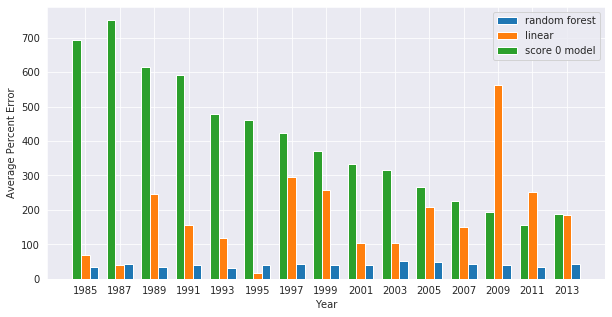
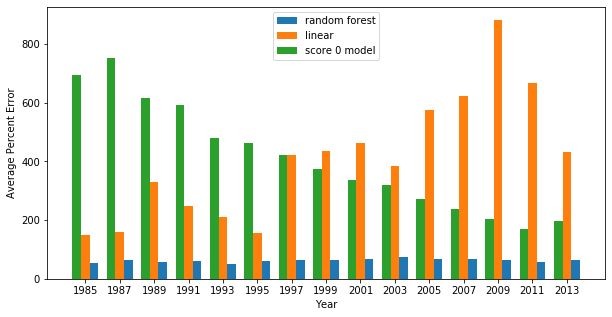
blog updates

diff --git a/docs/_site/2020/01/12/housingcosts.html b/docs/_site/2020/01/12/housingcosts.html
@@ -318,7 +318,11 @@
 
 <h2 id="discussion">DISCUSSION</h2>
 
-<p>In the table below, the top 10 features are listed for the ridge linear and random forest model. Both models agree that the housing unit market value (feature name VALUE) is the most important factor in determining the monthly housing cost. Both models also list AGE, IPOV, and FMR in their top 5 features. For ridge linear, the 4 other important features features are measurements related to the median area income. For random forest, the 4 other important features have to do with the household’s income and the age of the head of the household.</p>
+<p>In the table below, the top 10 features are listed for the ridge linear and random forest model. Both models agree that the housing unit market value (feature name VALUE) is the most important factor in determining the monthly housing cost.</p>
+
+<p>For random forest, the second most important predicter is AGE (age of head of household), followed by INCRELAMIPCT (income). Next most important predictors for this model are variables that measure local market conditions IPOV (poverty level income), FMR (fair market rent), and LMED (median income). The least important variables include the survey year (YEAR) and variables describing the housing characteristics (ROOMS, BEDRMS, PER (number of people)).</p>
+
+<p>For the linear model, the same set of variables (except for BEDRMS) are considered important; however the order of importance is different than the random forest model. Whether or not the housing unit was built in 2000-2009 was an important predictor for the linear model.</p>
 
 <table style="width:50%">
   <tr>
@@ -393,7 +397,7 @@
   </tr>
 </table>
 
-<p>Next, the percent error is calculated for each model. As a baseline for comparison, a third model is defined which predicts the sample average, regardless of the feature values. Such a model would have a score of 0. The average percent error is plotted across survey years for linear ridge, random forest, and baseline model. The random forest has the smallest average percent error, except for the years 1987 and 1995 where linear ridge has a smaller average percent error. For most survey years, the linear model is better than the baseline model. However this is not true for the years 2005, 2009, and 2011.</p>
+<p>Next, the percent error is calculated for each model. As a baseline for comparison, a third model is defined which predicts the sample average, regardless of the feature values. Such a model would have a score of 0. The average percent error is plotted across survey years for linear ridge, random forest, and baseline model. The random forest has by far the smallest average percent error. For earlier survey years, the linear model performs better than the baseline model. For later survey years, the baseline model outperforms the linear model.</p>
 
 <p><img src="/assets/images/avg_percent_error_all.png" alt="average percent error" title="average percent error" /></p>
 
@@ -407,7 +411,7 @@
 
 <p><img src="/assets/images/percent_error_boxplot_rf_zoomedin.png" alt="box plot rf zoomed" title="box plot rf zoomed" /></p>
 
-<p>For the support vector machine, the accuracy, precision, and recall are calculated.<sup><a href="#fn3" id="ref3">3</a></sup> These values are listed below.</p>
+<p>For the support vector machine, a binary variable is defined if the housing unit is above the 90th percentile for the monthly housing cost. The accuracy, precision, and recall are calculated for this variable.<sup><a href="#fn3" id="ref3">3</a></sup> These values are listed below.</p>
 
 <table style="width:20%">
   <tr>
@@ -439,7 +443,7 @@
 </ul>
 
 <h2 id="conclusion">CONCLUSION</h2>
-<p>In conclusion, a linear ridge model and random forest model were used to predict the monthly housing cost. Both models determined that the housing unit market value is an important indicator of the monthly housing cost. However both models disagree in what other parameters are important predictor variables. The random forest model on average has a smaller percent error than the linear ridge model. A support vector machine is used to predict whether or not a housing unit is in the top 10% of monthly housing cost. The accuracy, precision, and recall are calculated for this model. Finally, ideas on improving the predictive power of these models is discussed.</p>
+<p>In conclusion, a linear ridge model and random forest model were used to predict the monthly housing cost. Both models determined that the housing unit market value is an important indicator of the monthly housing cost. Both models almost had the same set of important predictor variables. However, the order of importance differed. The random forest model has on average a smaller percent error than the linear ridge model. A support vector machine is used to predict whether or not a housing unit is in the top 10% of monthly housing cost. The accuracy, precision, and recall are calculated for this model. Finally, ideas on improving the predictive power of these models are discussed.</p>
 
 <hr />
 

diff --git a/docs/_posts/2020-01-12-housingcosts.md b/docs/_posts/2020-01-12-housingcosts.md
@@ -284,7 +284,11 @@ Finally, a support vector machine (SVM) model is used to predict whether or not 
 
 ## DISCUSSION
 
-In the table below, the top 10 features are listed for the ridge linear and random forest model. Both models agree that the housing unit market value (feature name VALUE) is the most important factor in determining the monthly housing cost. Both models also list AGE, IPOV, and FMR in their top 5 features. For ridge linear, the 4 other important features features are measurements related to the median area income. For random forest, the 4 other important features have to do with the household’s income and the age of the head of the household.
+In the table below, the top 10 features are listed for the ridge linear and random forest model. Both models agree that the housing unit market value (feature name VALUE) is the most important factor in determining the monthly housing cost.
+
+For random forest, the second most important predicter is AGE (age of head of household), followed by INCRELAMIPCT (income). Next most important predictors for this model are variables that measure local market conditions IPOV (poverty level income), FMR (fair market rent), and LMED (median income). The least important variables include the survey year (YEAR) and variables describing the housing characteristics (ROOMS, BEDRMS, PER (number of people)).
+
+For the linear model, the same set of variables (except for BEDRMS) are considered important; however the order of importance is different than the random forest model. Whether or not the housing unit was built in 2000-2009 was an important predictor for the linear model.
 
 <table style="width:50%">
   <tr>
@@ -359,7 +363,7 @@ In the table below, the top 10 features are listed for the ridge linear and rand
   </tr>
 </table> 
 
-Next, the percent error is calculated for each model. As a baseline for comparison, a third model is defined which predicts the sample average, regardless of the feature values. Such a model would have a score of 0. The average percent error is plotted across survey years for linear ridge, random forest, and baseline model. The random forest has the smallest average percent error, except for the years 1987 and 1995 where linear ridge has a smaller average percent error. For most survey years, the linear model is better than the baseline model. However this is not true for the years 2005, 2009, and 2011.
+Next, the percent error is calculated for each model. As a baseline for comparison, a third model is defined which predicts the sample average, regardless of the feature values. Such a model would have a score of 0. The average percent error is plotted across survey years for linear ridge, random forest, and baseline model. The random forest has by far the smallest average percent error. For earlier survey years, the linear model performs better than the baseline model. For later survey years, the baseline model outperforms the linear model.
 
 ![average percent error]({{ site.baseurl }}/assets/images/avg_percent_error_all.png "average percent error")
 
@@ -373,7 +377,7 @@ Below are boxplots of the percent error for random forest model (full plot and z
 
 ![box plot rf zoomed]({{ site.baseurl }}/assets/images/percent_error_boxplot_rf_zoomedin.png "box plot rf zoomed")
 
-For the support vector machine, the accuracy, precision, and recall are calculated.<sup><a href="#fn3" id="ref3">3</a></sup> These values are listed below.
+For the support vector machine, a binary variable is defined if the housing unit is above the 90th percentile for the monthly housing cost. The accuracy, precision, and recall are calculated for this variable.<sup><a href="#fn3" id="ref3">3</a></sup> These values are listed below.
 
 
 <table style="width:20%">
@@ -405,7 +409,7 @@ To improve the predictive power of these machine learning models, the following 
 * Try hyperparameter tuning/cross validation for support vector machine model.
 
 ## CONCLUSION
-In conclusion, a linear ridge model and random forest model were used to predict the monthly housing cost. Both models determined that the housing unit market value is an important indicator of the monthly housing cost. However both models disagree in what other parameters are important predictor variables. The random forest model on average has a smaller percent error than the linear ridge model. A support vector machine is used to predict whether or not a housing unit is in the top 10% of monthly housing cost. The accuracy, precision, and recall are calculated for this model. Finally, ideas on improving the predictive power of these models is discussed.
+In conclusion, a linear ridge model and random forest model were used to predict the monthly housing cost. Both models determined that the housing unit market value is an important indicator of the monthly housing cost. Both models almost had the same set of important predictor variables. However, the order of importance differed. The random forest model has on average a smaller percent error than the linear ridge model. A support vector machine is used to predict whether or not a housing unit is in the top 10% of monthly housing cost. The accuracy, precision, and recall are calculated for this model. Finally, ideas on improving the predictive power of these models are discussed.
 
 
 
